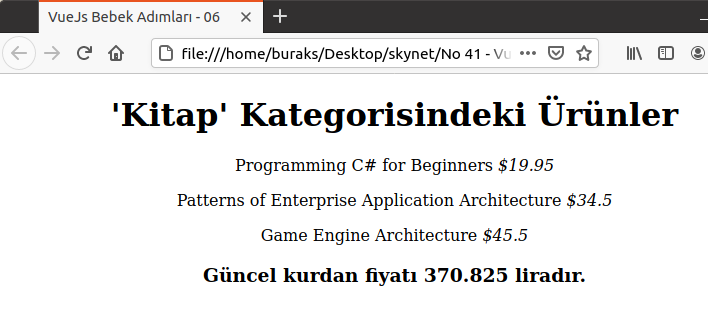
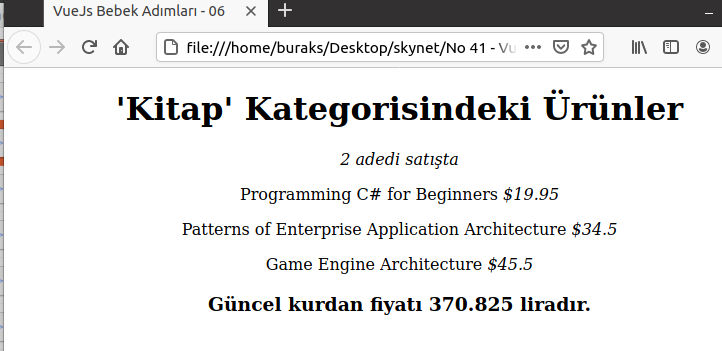
Satıştaki kitap adedini bulan computed prop eklendi

Changed region(s): [[0.0, 0.0, 1.0, 1.0], [0.2797, 0.8286, 0.839, 0.9143], [0.3418, 0.7143, 0.7458, 0.8]]

diff --git a/No 41 - Vueeeee/src/vue_computed_props.html b/No 41 - Vueeeee/src/vue_computed_props.html
@@ -11,6 +11,10 @@
     <div id="app" style="text-align:center;">
 
         <h1>'{{category}}' Kategorisindeki Ürünler</h1>
+        <!--
+            book_count, bir computed property'dir.
+        -->
+        <p><i>{{book_count}} adedi satışta</i></p>
 
         <!--
             div üzerinde mouse bir kitaba denk geldiğinde bu kitabın indis değeri markIndex isimli fonksiyona gönderilir.
@@ -42,9 +46,9 @@
                 data: {
                     category: "Kitap",
                     books: [
-                        { id: 0, title: "Programming C# for Beginners", publisher: "Wrox", listPrice: 19.95 },
-                        { id: 1, title: "Patterns of Enterprise Application Architecture", publisher: "Addison Wesley", listPrice: 34.50 },
-                        { id: 2, title: "Game Engine Architecture", publisher: "Gregory", listPrice: 45.50 },
+                        { id: 0, title: "Programming C# for Beginners", publisher: "Wrox", listPrice: 19.95, onSale: true },
+                        { id: 1, title: "Patterns of Enterprise Application Architecture", publisher: "Addison Wesley", listPrice: 34.50, onSale: true },
+                        { id: 2, title: "Game Engine Architecture", publisher: "Gregory", listPrice: 45.50, onSale: false },
                     ],
                     selectedBookIndex: 0,
                 },
@@ -56,11 +60,21 @@
                 },
                 computed: {
                     /*
-                        Computed Property'ler hesaplamaya dahil ettikleri veriler değişmediği sürece cache üzerinde tutulurlar. 
+                        Computed Property'ler hesaplamaya dahil ettikleri veriler değişmediği sürece cache üzerinde tutulurlar.
+                        local_price, mouseover hareketine göre üzerinde durulan kitabı alıp liste fiyatını bir işlemden geçirir ve geriye bir değer döner.
+                        book_count ise satışta olan kitapların adedini bulur ve geriye döner. 
                     */
                     local_price() {
                         //console.log(this.selectedBookIndex);
                         return this.books[this.selectedBookIndex].listPrice * 8.15;
+                    },
+                    book_count() {
+                        count = 0;
+                        for (i = 0; i < this.books.length; i++) {
+                            if (this.books[i].onSale)
+                                count++;
+                        }
+                        return count;
                     }
                 }
             }
